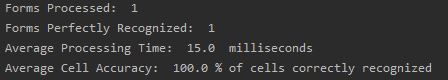
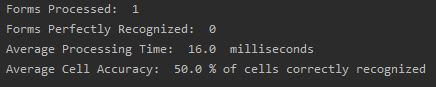
Updated noise test results

diff --git a/tesseract_test.py b/tesseract_test.py
@@ -12,6 +12,7 @@ def image_accuracy_test(images, labels):
             startTime = int(round(time.time() * 1000))
             api.SetImageFile(images[i])
             imageText = api.GetUTF8Text().lower()                   #converts the output of OCR to lowercase
+            #print(imageText)
             predictionAmount, correctPredictions = 0, 0
             labelStringArray = (labels[i]).split()
             for labelStr in labelStringArray:
@@ -84,7 +85,7 @@ def main():
                     print('Improper amount of ground truth files for '+file_name)
                     exit(1)
                 with open (os.path.join(args.ground_truth_path,text_files[0]),'r') as read_file:
-                    data = read_file.readlines()
+                    data = read_file.read()
                     images.append(os.path.join(args.images_path,file_name))
                     labels.append(data)
         image_accuracy_test(images,labels)
